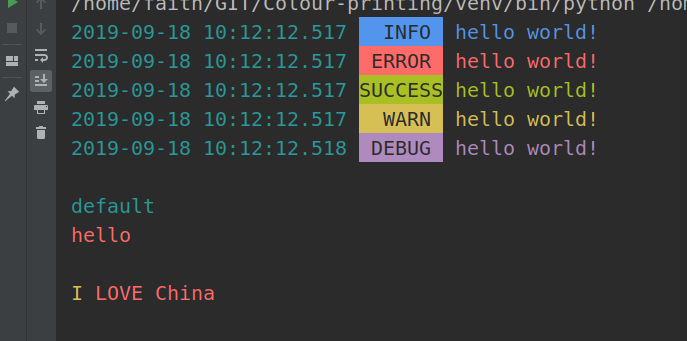
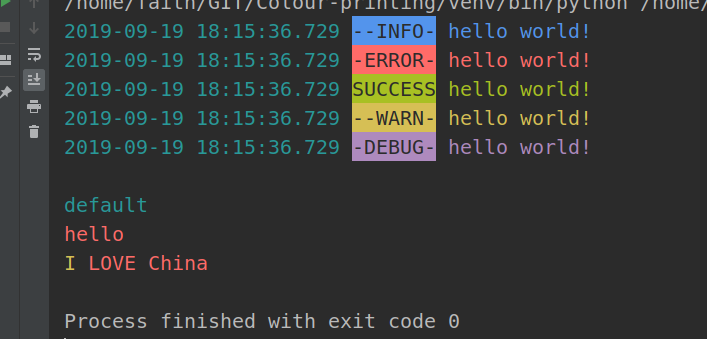
0.3.3

diff --git a/colour_printing/custom/printme.py b/colour_printing/custom/printme.py
@@ -36,25 +36,6 @@ def level_wrap(func):
     return wrap
 
 
-def log_to_file(printme):
-    count = printme.log_delay
-    path = os.path.join(printme.log_path, printme.log_name)
-    stream.write(f'[*]Tip>> 日志文件path: {path}\n')
-    with open(path, 'a+') as f:
-        while printme.switch and printme.Master_switch:
-            if count < 0:
-                stream.write('[*]Tip>> 日志输出关闭\n')
-                break
-            if printme.queue.empty():
-                stream.write(f'[*]Tip>> 等待输出信息 {count} s\n')
-                time.sleep(1)
-                count -= 1
-                continue
-            f.write(printme.queue.get())
-            f.flush()
-            count = printme.log_delay
-
-
 class PrintMeError(Exception):
     def __init__(self, message):
         super().__init__(message)
@@ -84,6 +65,48 @@ class ColourPrinting(object):
         pass
 
 
+class LogHandler(object):
+    def __init__(self, printme):
+        self.printme = printme
+        self.log_path = os.getcwd()
+        self.log_name = 'colour_printing_log.log'
+        self.log_delay = 5
+
+    def run(self, log_path: str = '', log_name: str = '', log_delay: int = None):  # log
+        """
+        :param log_path: 路径
+        :param log_name: 文件名
+        :param log_delay: 防止线程阻塞,无消息后延时退出
+        :return:
+        """
+        if log_path:
+            self.log_path = log_path
+        if log_name:
+            self.log_name = log_name
+        if log_delay:
+            self.log_delay = int(log_delay)
+        t = threading.Thread(target=self.__log_to_file, args=())
+        t.start()
+
+    def __log_to_file(self):
+        count = self.log_delay
+        path = os.path.join(self.log_path, self.log_name)
+        stream.write(f'[*]Tip>> 日志文件path: {path}\n')
+        with open(path, 'a+') as f:
+            while self.printme.switch and self.printme.Master_switch:
+                if count < 0:
+                    stream.write('[*]Tip>> 日志输出关闭\n')
+                    break
+                if self.printme.queue.empty():
+                    stream.write(f'[*]Tip>> 等待输出信息 {count} s\n')
+                    time.sleep(1)
+                    count -= 1
+                    continue
+                f.write(self.printme.queue.get())
+                f.flush()
+                count = self.log_delay
+
+
 class PrintMe(ColourPrinting):
 
     def __init__(self, template: str,
@@ -101,7 +124,8 @@ class PrintMe(ColourPrinting):
         self.default = {}
         # switch
         self.__switch = True
-        self.__filter = []
+        self.__print_filter = []
+        self.__log_filter = []
         # style config
         self.config_filename = config_filename if config_filename.endswith('.py') else config_filename + '.py'
         self.root_path = config_path if config_path else os.getcwd()
@@ -109,10 +133,7 @@ class PrintMe(ColourPrinting):
         self.config.from_pyfile(self.config_filename)
         # log
         self.queue = Queue()
-        self.log_path = os.getcwd()
-        self.log_name = 'colour_printing_log.log'
-        self.log_delay = 5
-        self.__log_filter = []
+        self.log_handler = LogHandler(self)
 
     def load_config(self):
         """获取py文件中的配置"""
@@ -125,16 +146,6 @@ class PrintMe(ColourPrinting):
                 default.update({t: v[t].pop("DEFAULT", lambda: "")})
                 sett = setting(**v[t])
                 style.update({f'{t}0': sett[0], f'{t}1': sett[1]})
-
-    def log_output(self, log_path: str = '', log_name: str = '', log_delay: int = None):  # log
-        if log_path:
-            self.log_path = log_path
-        if log_name:
-            self.log_name = log_name
-        if log_delay:
-            self.log_delay = int(log_delay)
-        t = threading.Thread(target=log_to_file, args=(self,))
-        t.start()
 
     def show(self, level: str, data: dict, end: str):
         # style
@@ -154,13 +165,13 @@ class PrintMe(ColourPrinting):
 
     @property
     def print_filter(self):
-        return self.__filter
+        return self.__print_filter
 
     @print_filter.setter
     def print_filter(self, val):
         if not isinstance(val, list):
             val = [val]
-        self.__filter = [i.upper() for i in val]
+        self.__print_filter = [i.upper() for i in val]
 
     @property
     def log_filter(self):

diff --git a/test/print_me_test.py b/test/print_me_test.py
@@ -3,16 +3,15 @@ import time
 from colour_printing.custom import PrintMe, level_wrap
 
 
-class A(PrintMe):
+class NewOne(PrintMe):
     @level_wrap
     def critical(self, *args, **kwargs):
         pass
 
 
-p = A(template='{time} :-> {message}')
-p.log_output()
+p = NewOne(template='{time} :-> {message}')
+p.log_handler.run()  # 打开日志输出
 for i in range(50):
-    p.info(i, end='1\n')
-
+    p.info(i, end='\n')
 time.sleep(1)
 p.critical(p.level_list)

diff --git a/test/default_test.py b/test/default_test.py
@@ -1,5 +1,5 @@
 from colour_printing.default import log
-from colour_printing import cprint, Back, Fore, Mode,cword
+from colour_printing import cprint, Back, Fore, Mode, cword
 
 log.info("hello world!")
 # Switch.signal=False #关闭
@@ -17,7 +17,6 @@ print()
 cprint('default')
 cprint('hello', fore=Fore.RED)
 # 或者
-cprint('',end='1')
 s1 = cword('I', fore=Fore.YELLOW)
 s2 = cword('LOVE', 'China', fore=Fore.RED)
 print(s1, s2[0], s2[1])

diff --git a/setup.py b/setup.py
@@ -9,7 +9,7 @@ def read(fname):
 
 setuptools.setup(
     name="colour-printing",
-    version="0.3.2",
+    version="0.3.3",
     author="faithforus",
     author_email="ljunf817@163.com",
     description="colour-printing",

diff --git a/README.md b/README.md
@@ -13,49 +13,66 @@ pip install colour-printing
 - 过滤器：(用于默认模板)
   - Switch.filter : list
   - Switch.signal : bool
+  
+#### 小工具
+
+```
+    from colour_printing import cprint,cword
+
+    # 打印色彩字符
+    cprint('default')
+    cprint('hello', fo re=Fore.RED)
+    #或者只要色彩字符
+    s1 = cword('I', fore=Fore.YELLOW)
+    s2 = cword('LOVE','China', fore=Fore.RED)
+    print(s1, s2[0], s2[1])
+```
+
 
 #### 示例默认模板
 ```
     from colour_printing.default import log
-    from colour_printing import cprint,cword
-    
     
     log.info("hello world!")
     log.error("hello world!")
     log.success("hello world!")
     log.warn("hello world!")
     log.debug("hello world!")
-    # 打印色彩字符
-    cprint('default')
-    cprint('hello', fore=Fore.RED)
-    #或者
-    s1 = cword('I', fore=Fore.YELLOW)
-    s2 = cword('LOVE','China', fore=Fore.RED)
-    print(s1, s2[0], s2[1])
-    
+
     
 
 ```
 ![image](https://github.com/Faithforus/Colour-printing/blob/master/default.png)
-#### 自定义模板/样式
+#### 自定义模板/样式/新增level
 
 ```
-    from colour_printing.custom import PrintMe
+    from colour_printing.custom import PrintMe,level_wrap
 
     p = PrintMe( template ='{time} {message}'
                  config_filename ='' ,
-                 log_output = True , # 日志文件输出
-                 log_name = '' , # 日志文件名
-                 log_delay = 5 ) # 日志关闭延迟
+                 config_path = '',) 
+    p.log_handler.run(log_name='',log_path='',log_delay='')  # 日志输出到文件
 
     # p.switch = False
-    # p.filter.append('info')
+    # p.prtin_filter=['info','error']
 
     p.info('hello')
+    p.error('hello')
+    p.warn('hello')
+    p.success('hello')
+    #新增level
+    class NewOne(PrintMe):
+        @level_wrap
+        def critical(self, *args, **kwargs):
+            """不执行"""
+            pass
+            
+    n = NewOne(template='{time} {message}')
+    n.critical('new')
 
 ```
 > 需要注意 
-- template (模板):  具体由format实现，所以格式要求 “{}{}{}{message}”  ！{message}必需！
-- colour_printing_config.py (配置文件):  DEFAULT ：lambda or function name ;具体查看test/colour_printing_config.py
+- template (模板):  具体由format实现，所以格式要求 “{}{}{}{**message**}”  {**message**}字段必需!
+- colour_printing_config.py (配置文件):  DEFAULT ：**lambda** or **function name** ;具体查看test/colour_printing_config.py
 
 

diff --git a/README.rst b/README.rst
@@ -19,9 +19,23 @@ Python version: 3.5+
   + Switch.filter : list
   + Switch.signal : bool
 
+小工具
+=======
 
-示例
-=====
+::
+
+    # 打印色彩字符
+    cprint('default')
+    cprint('hello', fore=Fore.RED)
+    #或者只要色彩字符
+    s1 = cword('I', fore=Fore.YELLOW)
+    s2 = cword('LOVE','China', fore=Fore.RED)
+    print(s1, s2[0], s2[1])
+
+
+
+默认模板示例
+============
 
 ::
 
@@ -38,59 +52,38 @@ Python version: 3.5+
     log.warn("hello world!")
     log.debug("hello world!")
 
-    # 打印色彩字符
-    cprint('default')
-    cprint('hello', fore=Fore.RED)
-    #或者
-    s1 = cword('I', fore=Fore.YELLOW)
-    s2 = cword('LOVE','China', fore=Fore.RED)
-    print(s1, s2[0], s2[1])
 
 
 
-默认模板style
-=============
 
-- 查看样式表：
+自定义模板/style/新增level
+==========================
 
 ::
 
- print(log)
+    from colour_printing.custom import PrintMe,level_wrap
 
-::
-
-    from colour_printing.custom import ColourPrint, Back, Fore, Mode
-
-    class MyColour(ColourPrint):
-        def custom(self):
-            self.test = self.Markers('test')
-            .flag_style(fore=Fore.PURPLE, mode=Mode.HIDE)
-            .time_style(mode=Mode.INVERT)
-            .message_style(fore=Fore.YELLOW)
-
-
-    echo = MyColour()
-    echo.info('hello world!')
-    echo.test('hello world!')
-
-
-自定义模板/style
-===================
-
-::
-
-    from colour_printing.custom import PrintMe
-
-    p = PrintMe(template='{time} {message}',
-                config_filename = '' ,
-                log_output = True , #日志文件输出
-                log_name = '' , #日志文件名
-                log_delay = 5 ) #日志关闭延迟
+    p = PrintMe( template ='{time} {message}'
+                 config_filename ='' ,
+                 config_path = '',)
+    p.log_handler.run(log_name='',log_path='',log_delay='')  # 日志输出到文件
 
     # p.switch = False
-    # p.filter.append('info')
+    # p.prtin_filter=['info','error']
 
     p.info('hello')
+    p.error('hello')
+    p.warn('hello')
+    p.success('hello')
+    #新增level
+    class NewOne(PrintMe):
+        @level_wrap
+        def critical(self, *args, **kwargs):
+            """不执行"""
+            pass
+
+    n = NewOne(template='{time} {message}')
+    n.critical('new')
 
 
 需要注意
